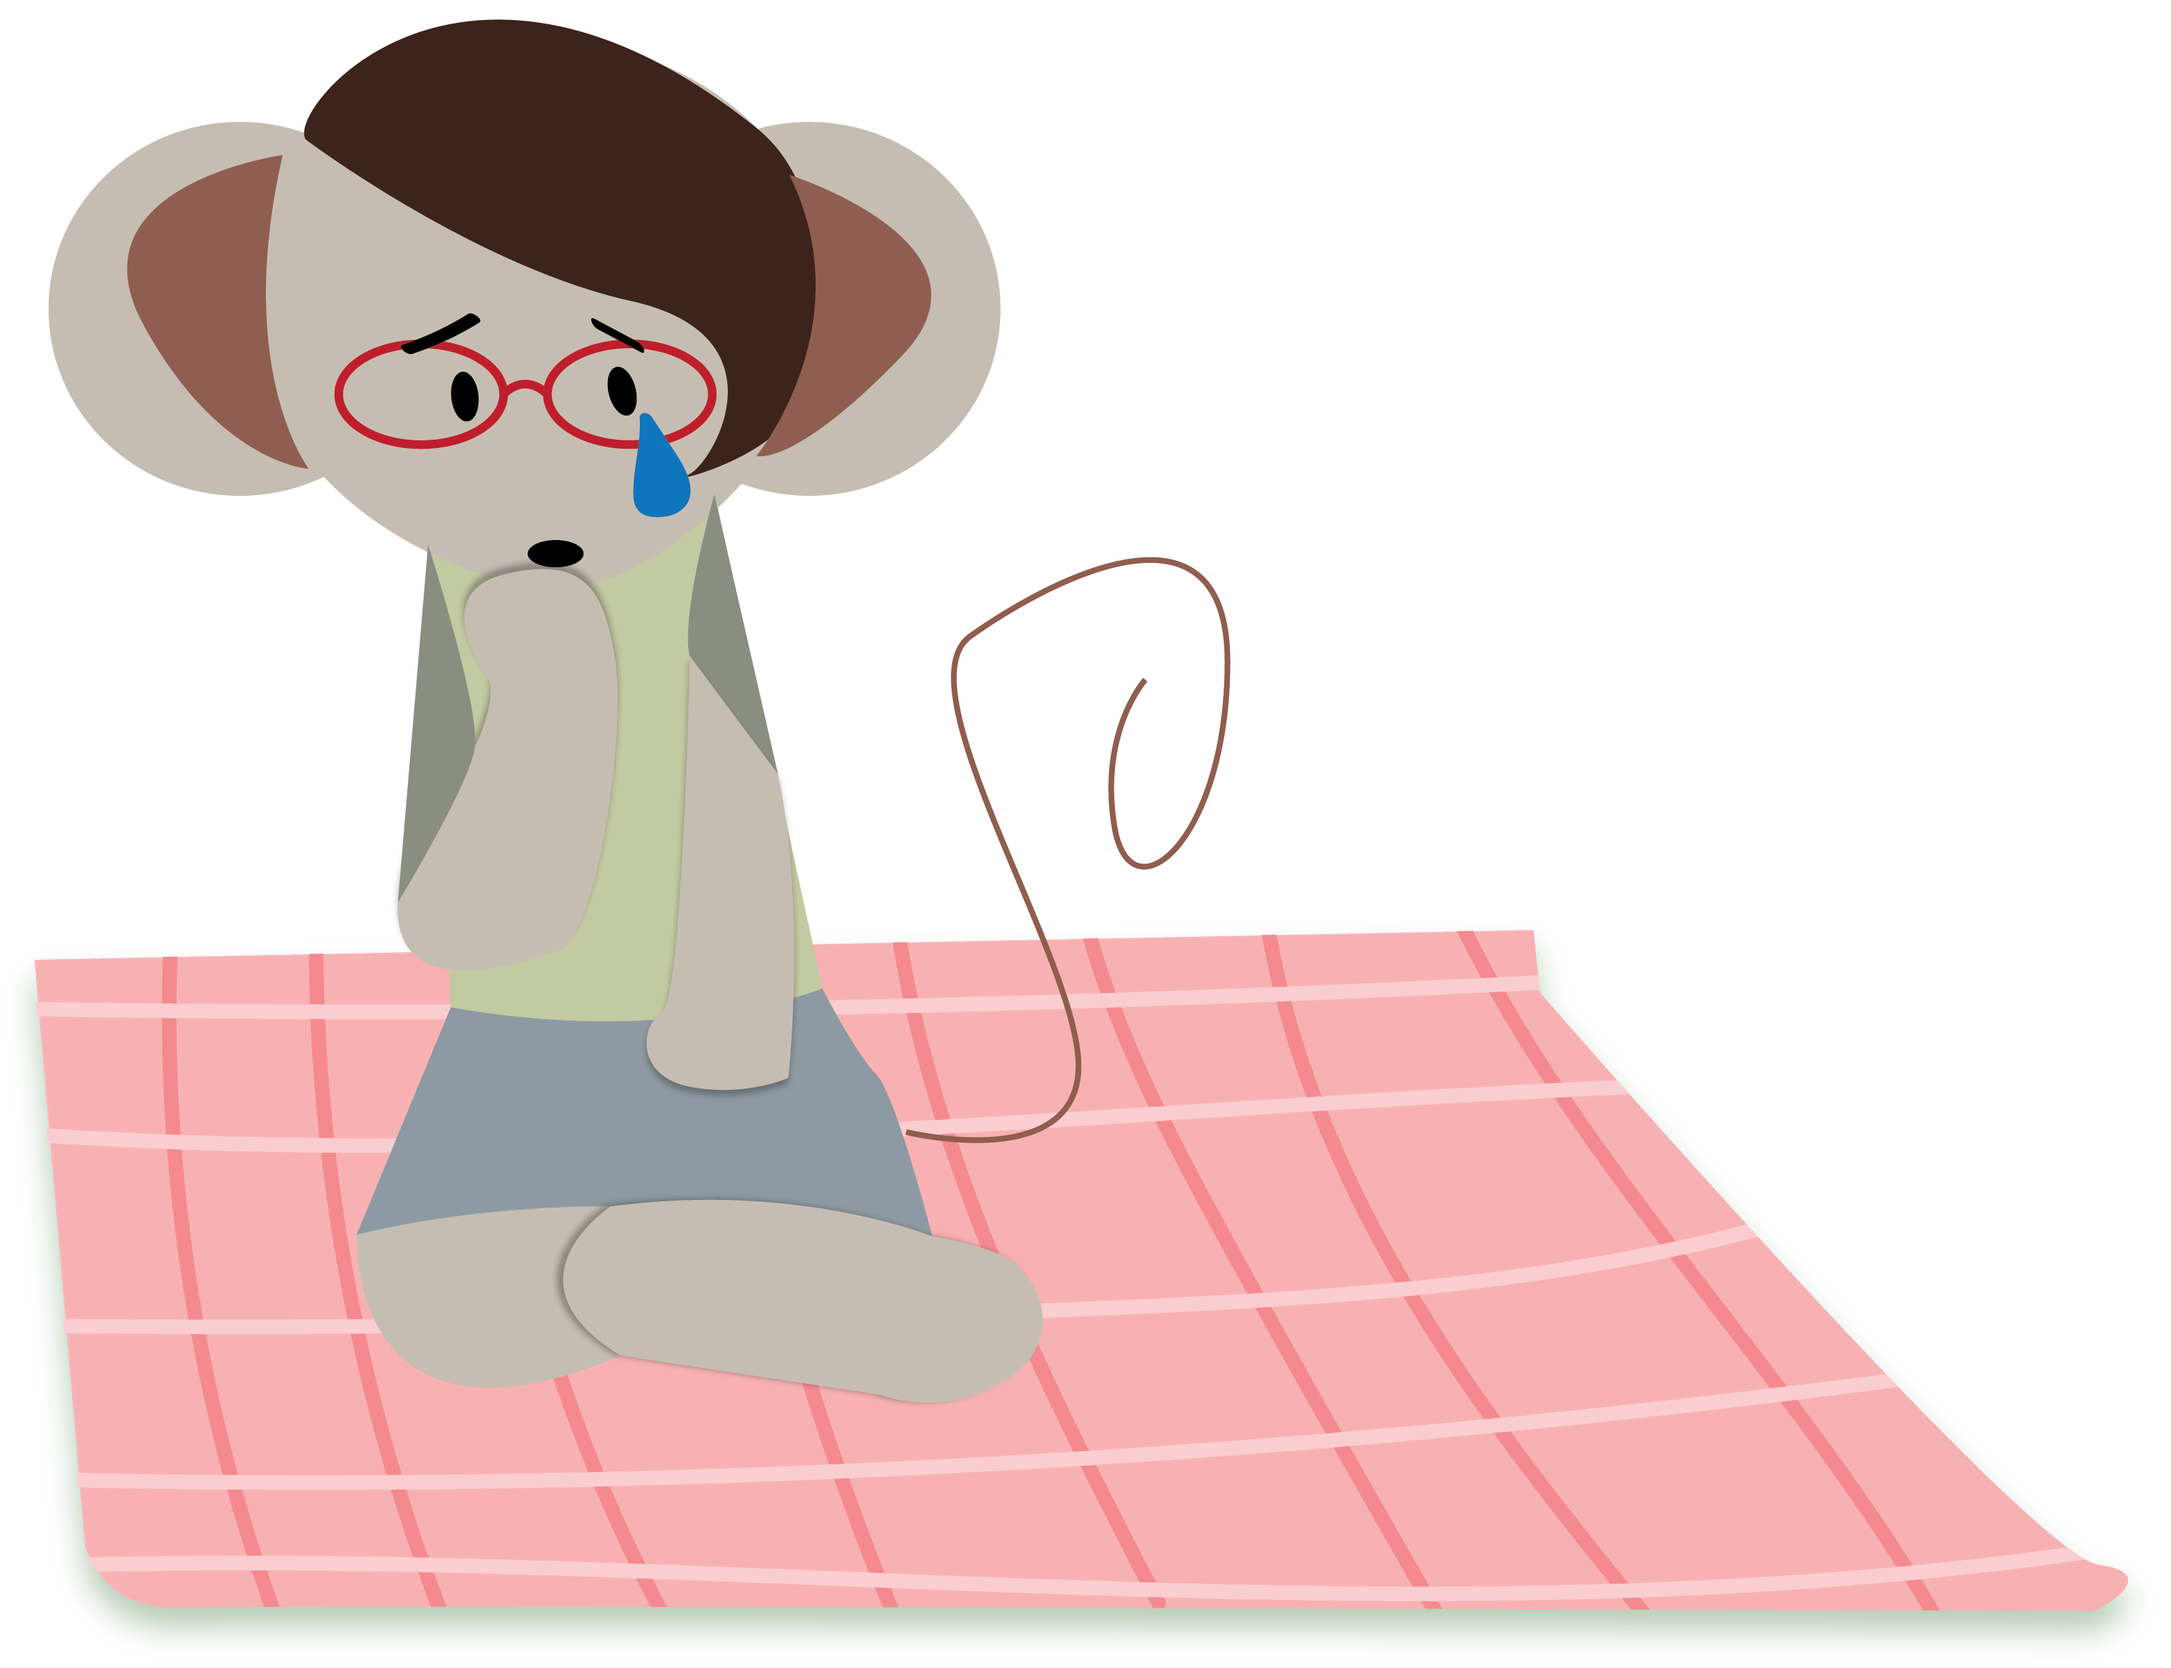
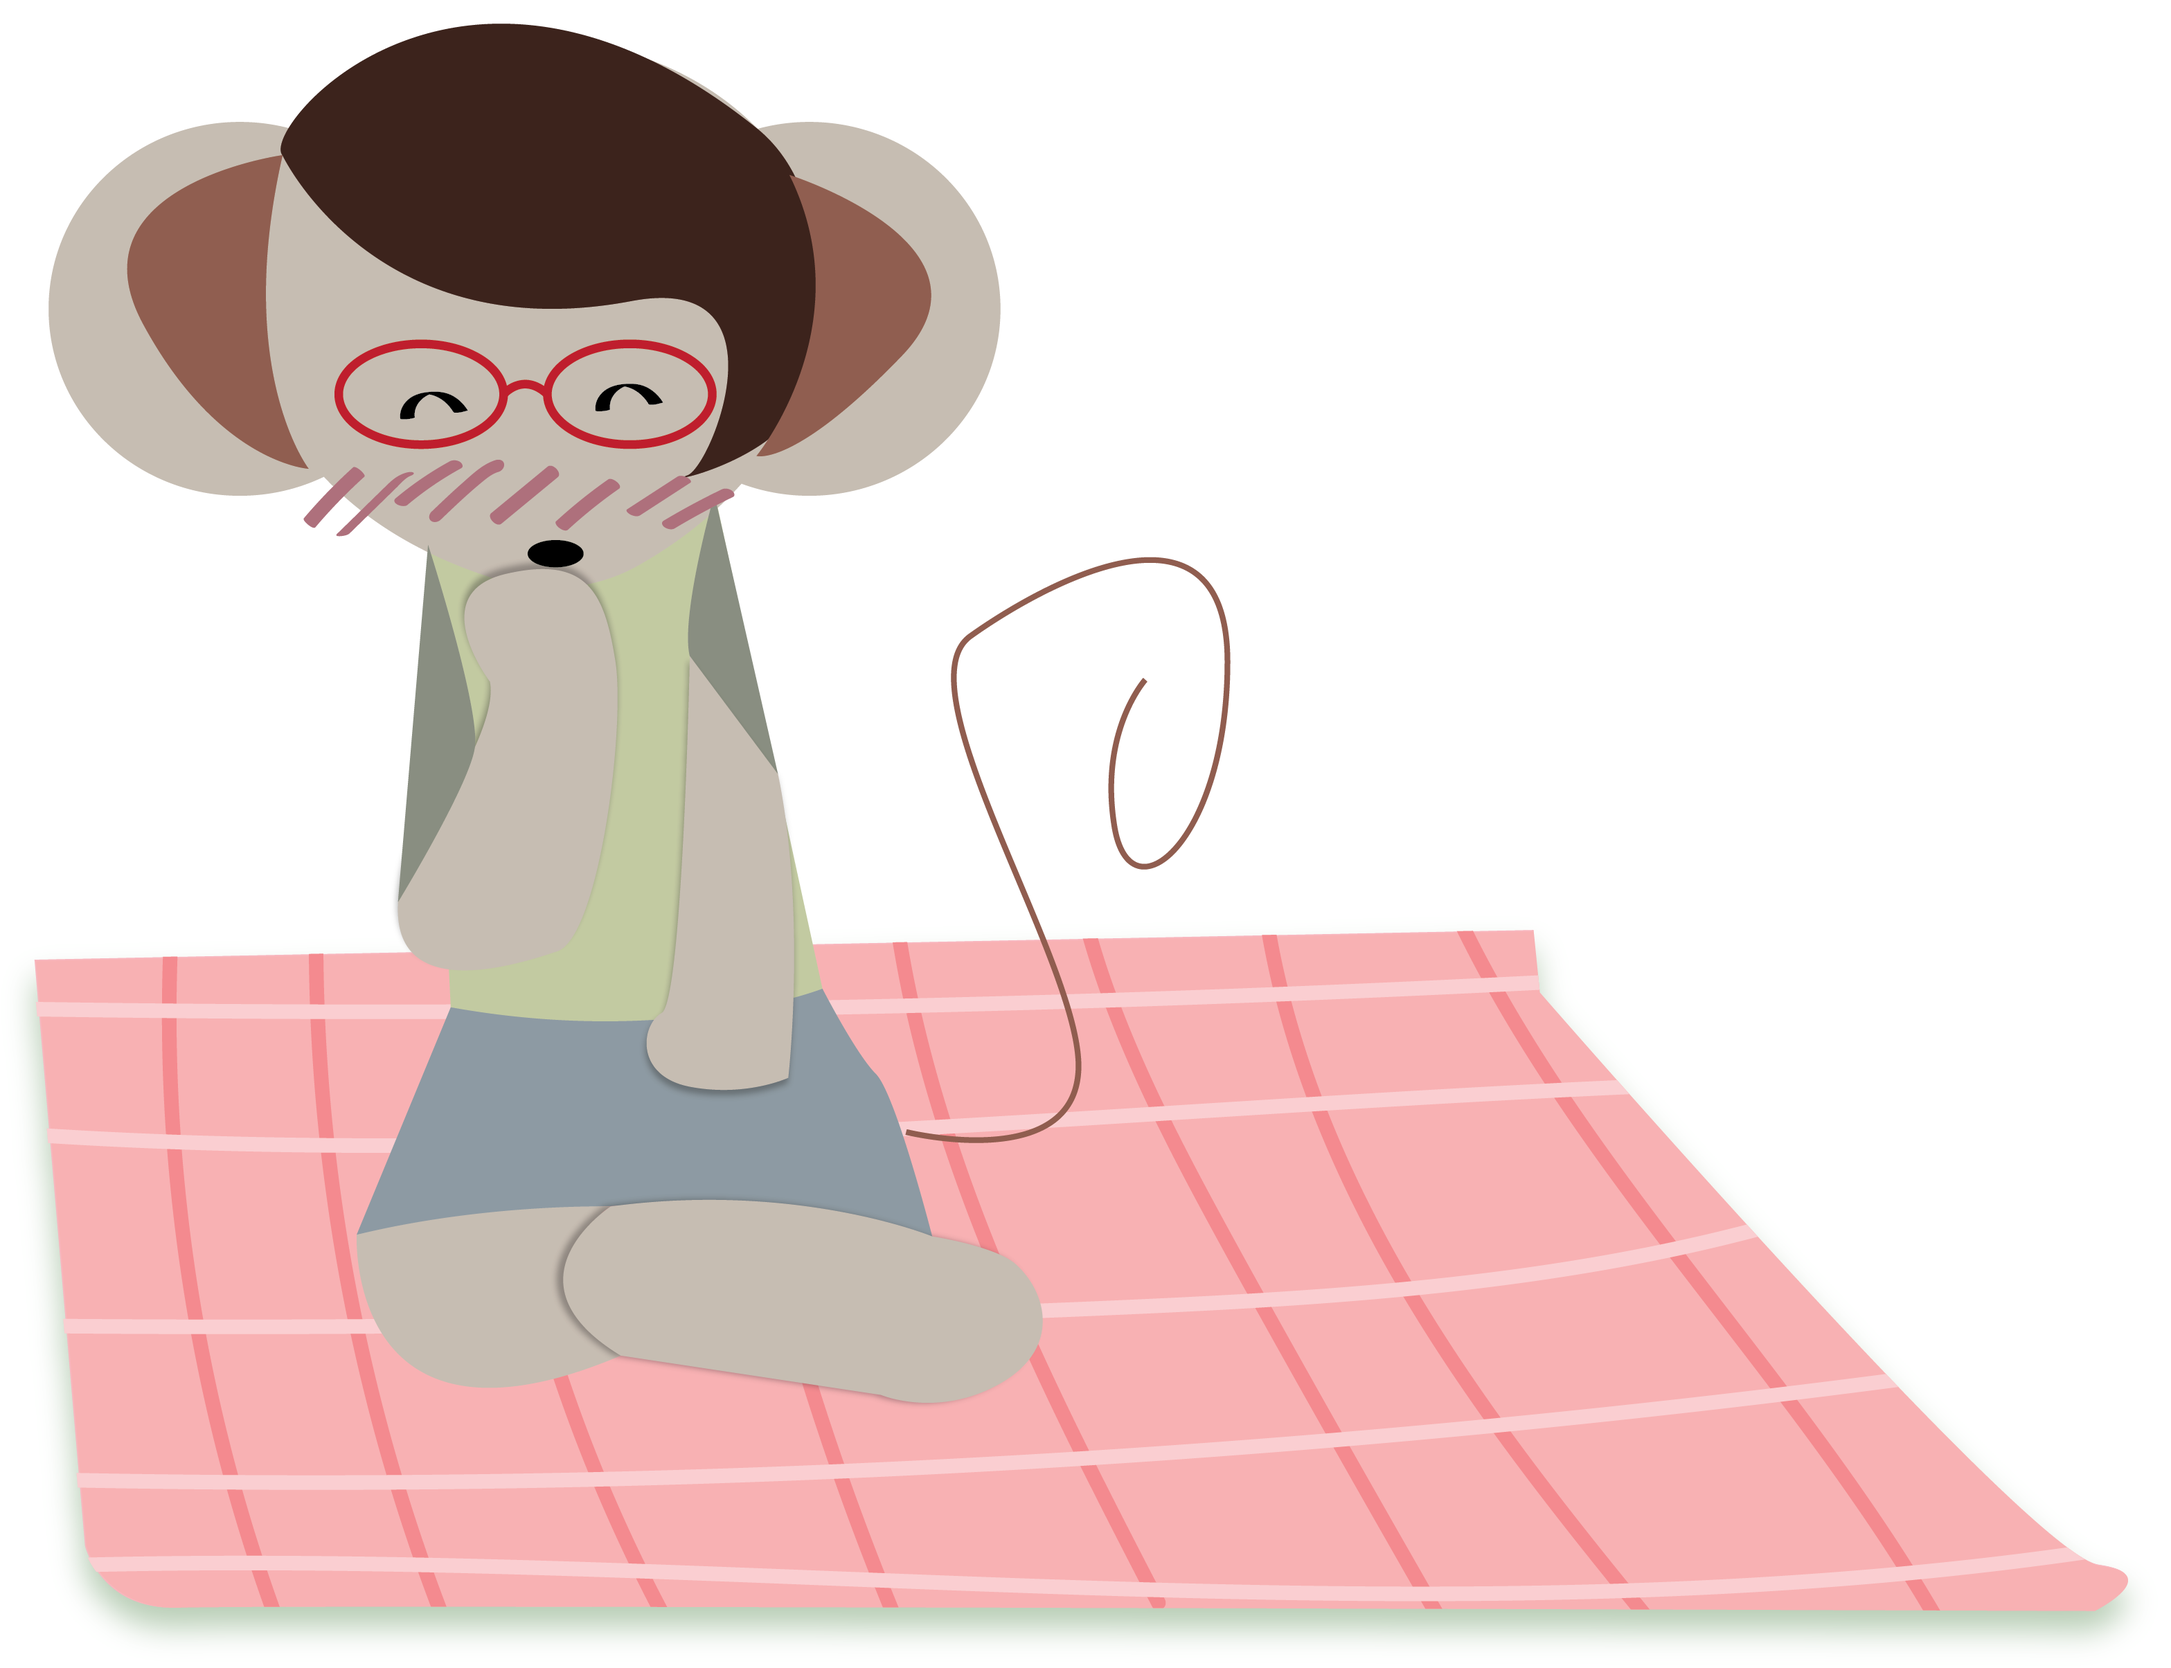
okay im done for real this time

Changed region(s): [[0.1238, 0.0623, 0.3404, 0.3113]]

diff --git a/js/main.js b/js/main.js
@@ -66,34 +66,30 @@ if (document.getElementById("title")) {
 const dialogue = [
   {
     id: "title",
-    text: "Doxie loves to play the violin..."
+    text: "Meet Jamiel & Victoria!"
   },
   {
     id: "paragraph1",
-    text: "She especially loves to play for her boyfriend Dobber!"
-  },
-  {
-    id: "paragraph2",
-    text: "Tomorrow, it's their one-year anniversary. So Doxie is preparing a special song for Dobber."
+    text: "They'll be celebrating their 1 year anniversary soon!"
   },
   {
     id: "subtitle",
-    text: "But Doxie has a huge problem..."
+    text: "But Jamiel has a huge problem..."
+  },
+  {
+    id: "paragraph2",
+    text: "He can't decide what song he wants to play for Victoria on his violin."
   },
   {
     id: "paragraph3",
-    text: "She can't decide what song she wants to play for Dobber on her violin."
+    text: "\"There's just too many love songs!\" he says. \"Every love song reminds me of Victoria!\""
   },
   {
     id: "paragraph4",
-    text: "\"There's just too many love songs!\" she says. \"Every love song reminds me of Dobber.\""
-  },
-  {
-    id: "paragraph5",
-    text: "Will you help Doxie pick a song to play?"}];
+    text: "Will you help Jamiel pick a song to play?"}];
 
 
-    const speed = 10; //change this to 80 wbefore submittting!
+    const speed = 20; //change this to 80 wbefore submittting!
 let itemIndex = 0;
 let charIndex = 0;
 
@@ -118,67 +114,23 @@ function typeWriter() {
   typeWriter();
 }
 
-gsap.set(".violin-img", {
-  x: 480,
-  y: 90,
-  scaleX: 1
-});
+gsap.set(".violin-img", { x: 400, y: 90, scaleX: 1 });
 
 gsap.timeline({ repeat: -1 })
-  // Slide right
-  .to(".violin-img", {
-    x: 700,
-    duration: 2,
-    ease: "sine.inOut"
-  })
+  .to(".violin-img", { x: 600, duration: 2, ease: "sine.inOut" })
+  .to(".violin-img", { scaleX: -1, duration: 1, ease: "power2.inOut" })
+  .to(".violin-img", { x: 400, duration: 2, ease: "sine.inOut" })
+  .to(".violin-img", { scaleX: 1, duration: 1, ease: "power2.inOut" });
 
-  // Flip to face left
-  .to(".violin-img", {
-    scaleX: -1,
-    duration: 0.2,
-    ease: "power2.inOut"
-  })
-
-  // Slide left
-  .to(".violin-img", {
-    x: 480,
-    duration: 2,
-    ease: "sine.inOut"
-  })
-
-  // Flip to face right
-  .to(".violin-img", {
-    scaleX: 1,
-    duration: 0.2,
-    ease: "power2.inOut"
-  });
-
-
-  
-  // VIOLIN IMAGE CROSSFADE
+// VIOLIN IMAGE CROSSFADE
 const images = gsap.utils.toArray(".violin-img");
-
 gsap.set(images, { opacity: 0 });
 gsap.set(images[0], { opacity: 1 });
 
-const imageTimeline = gsap.timeline({
-  repeat: -1
-});
-
+const imageTimeline = gsap.timeline({ repeat: -1 });
 images.forEach((img, index) => {
   const next = images[(index + 1) % images.length];
-
   imageTimeline.to({}, { duration: 3 });
-
-  imageTimeline.to(img, {
-    opacity: 0,
-    duration: 1.5,
-    ease: "power2.inOut"
-  });
-
-  imageTimeline.to(next, {
-    opacity: 1,
-    duration: 1.5,
-    ease: "power2.inOut"
-  }, "<");
+  imageTimeline.to(img, { opacity: 0, duration: 1.5, ease: "power2.inOut" });
+  imageTimeline.to(next, { opacity: 1, duration: 1.5, ease: "power2.inOut" }, "<");
 });

diff --git a/css/main.css b/css/main.css
@@ -16,9 +16,12 @@ background: #b64040;}
 
 .grassy-bg{
 background: #99ccff;
-background: linear-gradient(180deg, #99ccff 1%, #9ec2e7 21%, #edf6ff 56%, #e7f2e7 64%, rgba(216, 231, 165, 1) 73%, #c3cd95 82%, #726658 100%);
+background: linear-gradient(180deg,rgba(153, 204, 255, 1) 1%, rgba(158, 194, 231, 1) 21%, rgba(237, 246, 255, 1) 56%, rgba(231, 242, 231, 1) 64%, rgba(216, 231, 165, 1) 73%, rgba(195, 205, 149, 1) 82%, rgba(205, 190, 149, 1) 99%);;
     background-repeat: no-repeat;
     background-attachment: fixed;}
+
+.last-button{
+transform: translateY(750px) translateX(400px);}
 
 
 
@@ -28,7 +31,7 @@ background: linear-gradient(180deg, #99ccff 1%, #9ec2e7 21%, #edf6ff 56%, #e7f2e
     animation: buttonFadeIn 1.5s ease forwards;
 
     background-color: #ffc869;
-    color: #9b825e;
+    color: #f5f1e9;
     border: none;
     padding: 20px 40px;
     font-size: 20px;
@@ -39,8 +42,7 @@ background: linear-gradient(180deg, #99ccff 1%, #9ec2e7 21%, #edf6ff 56%, #e7f2e
 
 .yellow-button:hover{
     background-color: #f4b84f;
-    padding: 20px 46px;
-}
+    padding: 20px 46px;}
 
 
 /* Index Css */
@@ -199,7 +201,7 @@ background: linear-gradient(180deg, #99ccff 1%, #9ec2e7 21%, #edf6ff 56%, #e7f2e
 
 .violin-img{
     position: absolute;
-    max-width: 40%;
+    max-width: 60%;
     z-index: 2;
     opacity: 0;}
 

diff --git a/thedate.html b/thedate.html
@@ -14,7 +14,6 @@
 
   <link rel="manifest" href="site.webmanifest">
   <link rel="icon" href="./img/sun.png">
-  <!-- Place favicon.ico in the root directory -->
 
   <link rel="stylesheet" href="css/normalize.css">
   <link rel="stylesheet" href="css/main.css">
@@ -34,6 +33,10 @@
   <img class="violin-img" src="./img/pose3.png" alt="">
 
   <img class="grass-img" src="./img/grass.png" alt="">
+
+<a href="./songchoice.html">
+<button class="yellow-button last-button" id="choose-btn"> Choose A New Song </button>
+</a>
 </div>
 
   <script src="https://cdnjs.cloudflare.com/ajax/libs/gsap/3.14.2/gsap.min.js"></script>

diff --git a/storyline.html b/storyline.html
@@ -37,15 +37,13 @@
 
       <p id="paragraph1"></p>
 
-      <p id="paragraph2"></p>
-
       <h2 class="bolder-txt" id="subtitle"></h2>
+
+      <p id="paragraph2"></p>
 
       <p id="paragraph3"></p>
 
-      <p id="paragraph4"></p>
-
-      <h3 class="bolder-txt" id="paragraph5"></h3>
+      <h3 class="bolder-txt" id="paragraph4"></h3>
 
       <a href="./songchoice.html">
         <button class="yellow-button but-2 fadeIn-animation"> YES OFC! </button>
